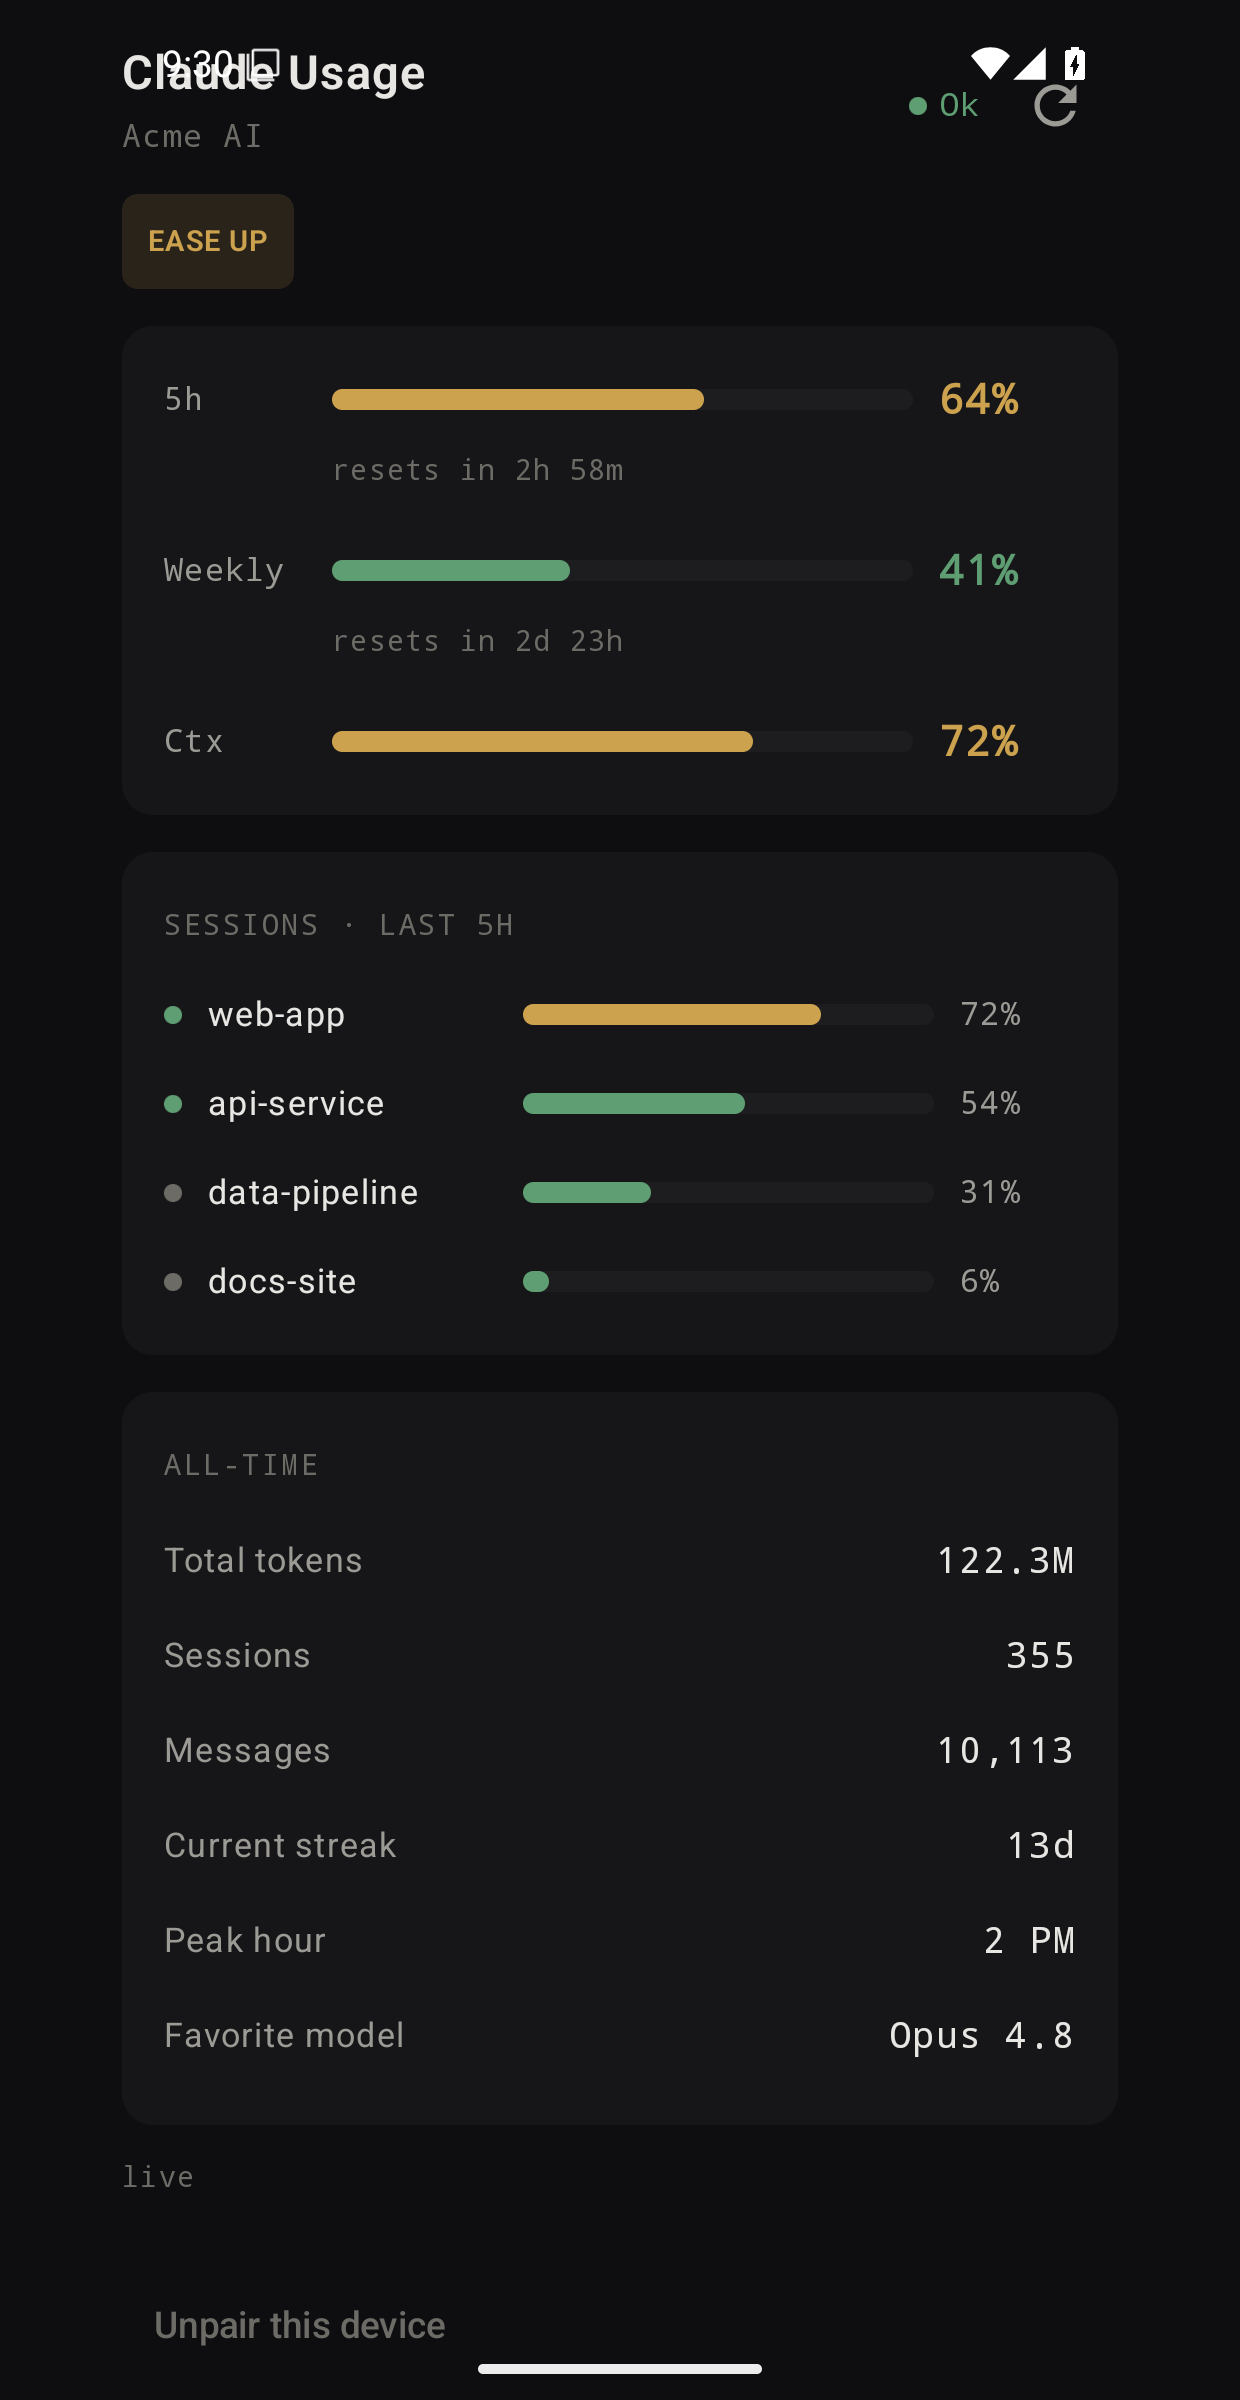
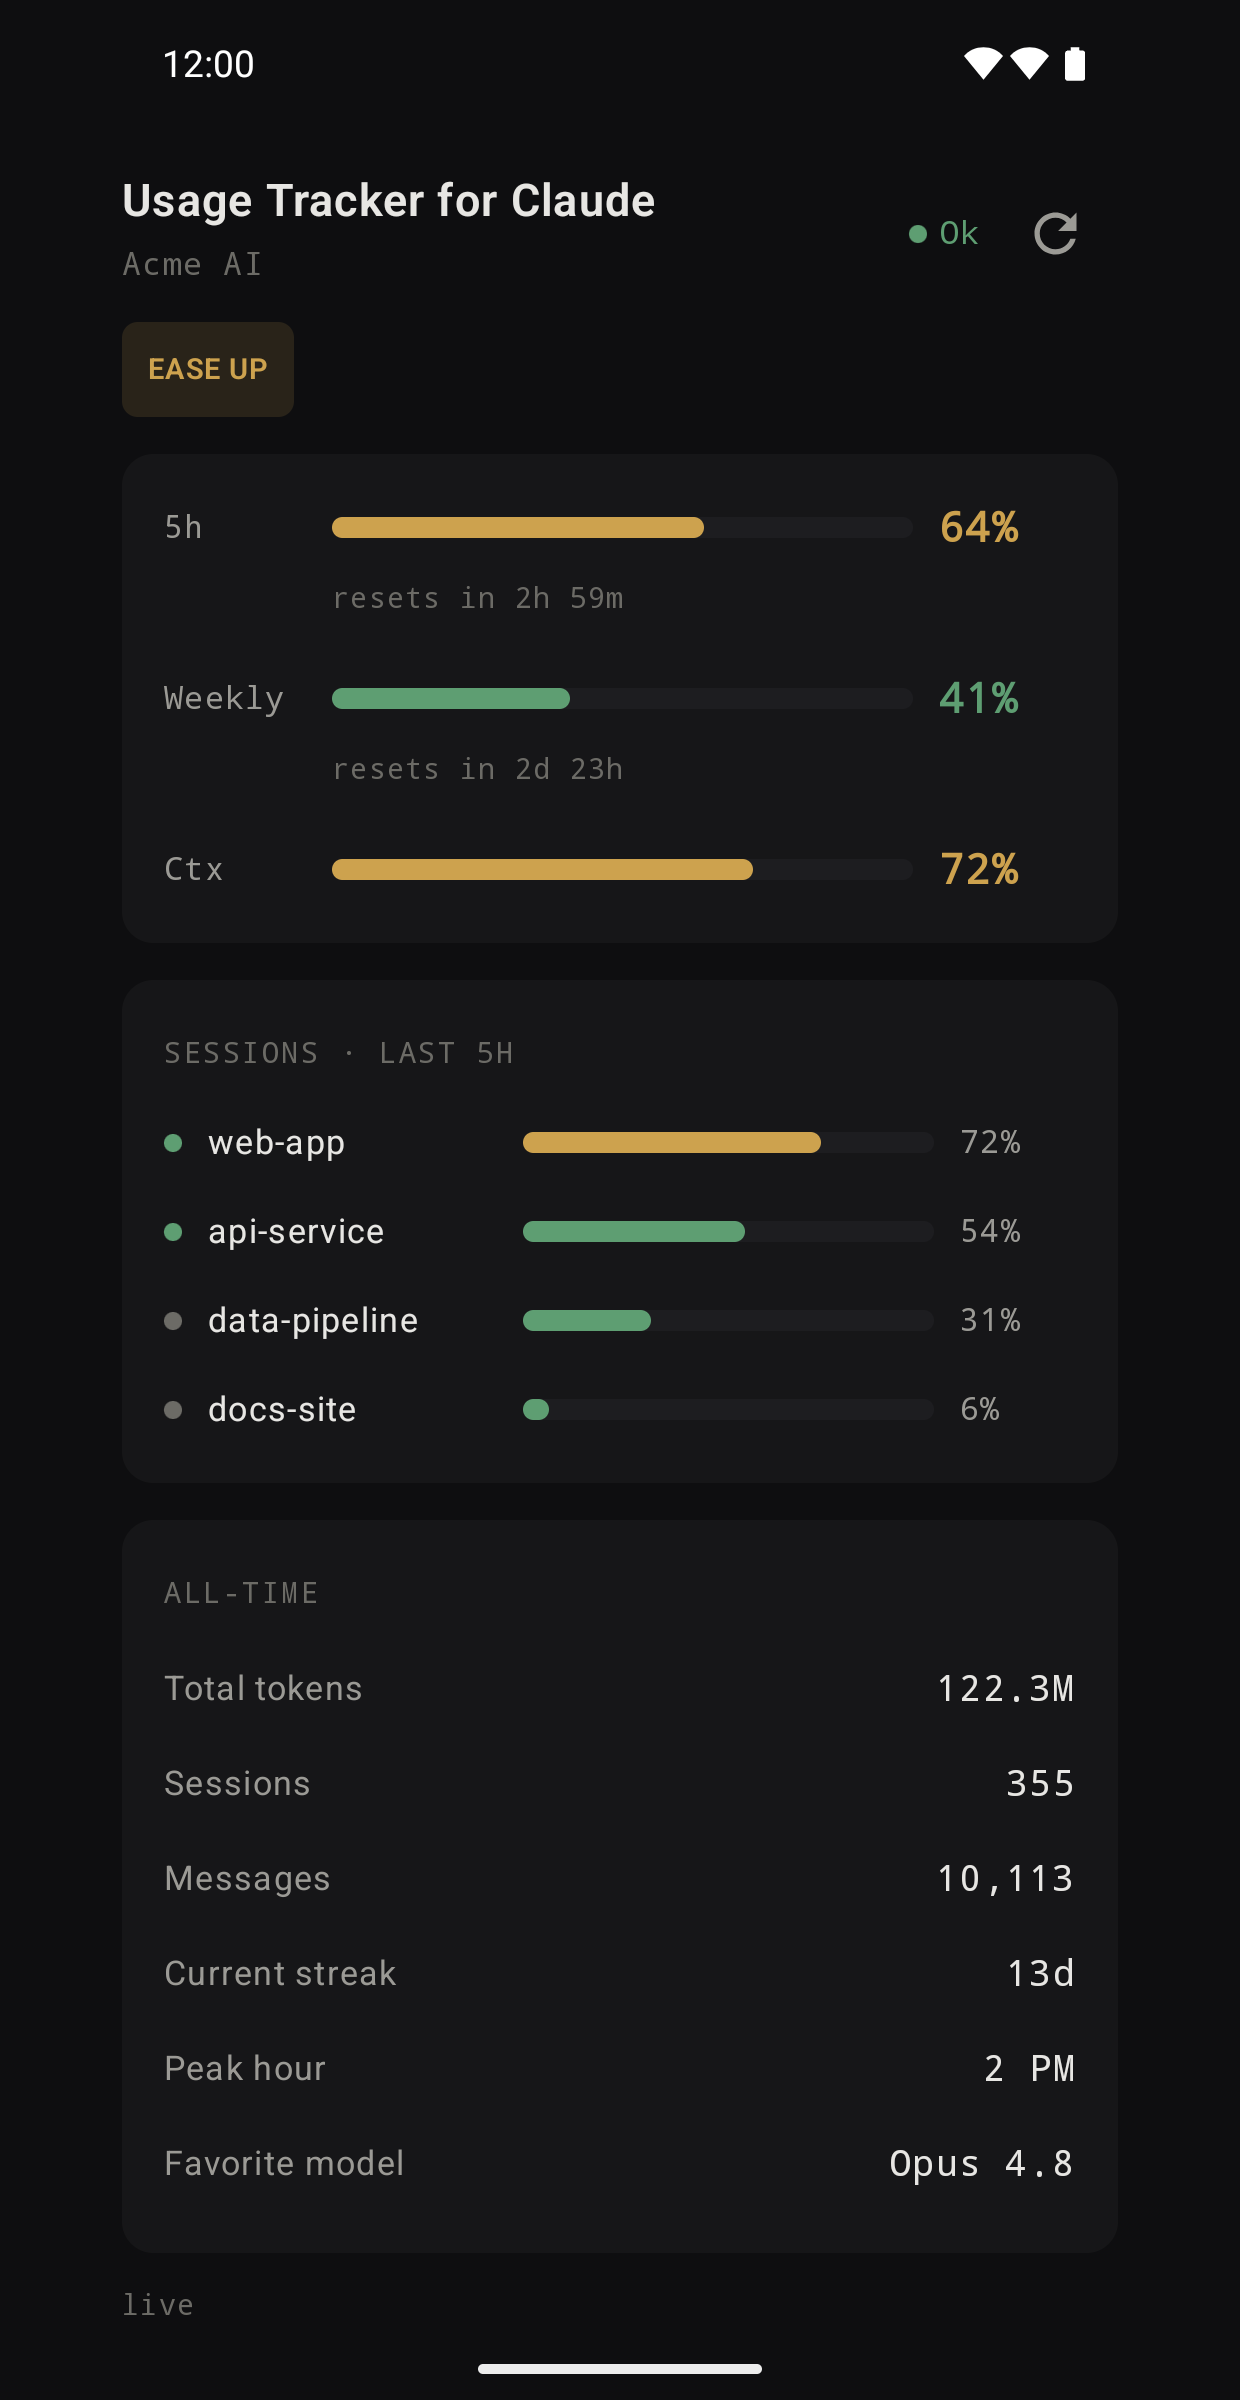
fix(android): edge-to-edge insets, portrait QR, friendly first-sync state
- enableEdgeToEdge() + WindowInsets.safeDrawing on the screen roots so content
  no longer draws under the status/nav bars (targetSdk 35); pin both bars to a
  dark style so the clock/battery stay light on the dark UI. Fixes the header
  overlapping the phone status bar.
- Lock the QR scanner to portrait (was rotating the phone to landscape).
- Treat a not-yet-synced account as a 'waiting for your desktop' state with an
  animated loading bar instead of a raw 'relay 404'; poll faster (5s) until the
  first snapshot arrives, then settle to 20s.
- Relay: a consumer GET on an account before the desktop's first push now
  returns 204 (no data yet) instead of 404.
- Bump versionCode 2->3 / versionName 0.1.1; regenerate Play screenshots
  (new name 'Usage Tracker for Claude' + fixed layout).

diff --git a/android/app/src/main/java/com/claudeusage/tracker/ui/DashboardScreen.kt b/android/app/src/main/java/com/claudeusage/tracker/ui/DashboardScreen.kt
@@ -7,13 +7,16 @@ import androidx.compose.foundation.layout.Box
 import androidx.compose.foundation.layout.Column
 import androidx.compose.foundation.layout.Row
 import androidx.compose.foundation.layout.Spacer
+import androidx.compose.foundation.layout.WindowInsets
 import androidx.compose.foundation.layout.fillMaxSize
 import androidx.compose.foundation.layout.fillMaxWidth
 import androidx.compose.foundation.layout.fillMaxHeight
 import androidx.compose.foundation.layout.height
 import androidx.compose.foundation.layout.padding
+import androidx.compose.foundation.layout.safeDrawing
 import androidx.compose.foundation.layout.size
 import androidx.compose.foundation.layout.width
+import androidx.compose.foundation.layout.windowInsetsPadding
 import androidx.compose.foundation.rememberScrollState
 import androidx.compose.foundation.shape.CircleShape
 import androidx.compose.foundation.shape.RoundedCornerShape
@@ -22,6 +25,7 @@ import androidx.compose.material.icons.Icons
 import androidx.compose.material.icons.filled.Refresh
 import androidx.compose.material3.Icon
 import androidx.compose.material3.IconButton
+import androidx.compose.material3.LinearProgressIndicator
 import androidx.compose.material3.Text
 import androidx.compose.material3.TextButton
 import androidx.compose.runtime.Composable
@@ -39,6 +43,7 @@ import androidx.compose.ui.graphics.Color
 import androidx.compose.ui.platform.LocalContext
 import androidx.compose.ui.text.font.FontFamily
 import androidx.compose.ui.text.font.FontWeight
+import androidx.compose.ui.text.style.TextAlign
 import androidx.compose.ui.unit.dp
 import androidx.compose.ui.unit.sp
 import com.claudeusage.tracker.Prefs
@@ -65,7 +70,7 @@ fun DashboardScreen(onUnpair: () -> Unit) {
         try {
             val js = RelayClient(p).fetchSnapshot()
             if (js == null) {
-                error = "Waiting for the desktop to sync…"
+                error = null            // not synced yet — show the waiting state, not an error
             } else {
                 snap = Snap.parse(js); error = null
             }
@@ -76,11 +81,17 @@ fun DashboardScreen(onUnpair: () -> Unit) {
         }
     }
 
-    LaunchedEffect(Unit) { while (true) { reload(); delay(20_000) } }
+    // Poll fast until the first snapshot lands (so it appears the moment the desktop pushes),
+    // then settle to a calm cadence.
+    LaunchedEffect(Unit) { while (true) { reload(); delay(if (snap == null) 5_000L else 20_000L) } }
     LaunchedEffect(Unit) { while (true) { delay(1_000); now = System.currentTimeMillis() } }
 
     Column(
-        Modifier.fillMaxSize().background(Bg).verticalScroll(rememberScrollState()).padding(16.dp)
+        // Bg fills edge-to-edge and stays fixed; the safeDrawing inset is applied inside the
+        // scroll so content clears the status/nav bars yet still scrolls under the (transparent)
+        // status bar for a native Android-15 feel.
+        Modifier.fillMaxSize().background(Bg).verticalScroll(rememberScrollState())
+            .windowInsetsPadding(WindowInsets.safeDrawing).padding(16.dp)
     ) {
         // header
         Row(verticalAlignment = Alignment.CenterVertically, modifier = Modifier.fillMaxWidth()) {
@@ -128,8 +139,16 @@ fun DashboardScreen(onUnpair: () -> Unit) {
         }
 
         if (snap == null) {
-            Spacer(Modifier.height(40.dp))
-            Text(if (loading) "loading…" else (error ?: "no data"), color = Dim, fontSize = 14.sp)
+            if (error == null) {
+                WaitingForSync()
+            } else {
+                Spacer(Modifier.height(48.dp))
+                Text(error!!, color = hexColor("#d4694f"), fontSize = 14.sp,
+                    textAlign = TextAlign.Center, modifier = Modifier.fillMaxWidth())
+                Spacer(Modifier.height(12.dp))
+                TextButton(onClick = { scope.launch { reload() } },
+                    modifier = Modifier.align(Alignment.CenterHorizontally)) { Text("Try again", color = Accent) }
+            }
         } else if (error != null) {
             Spacer(Modifier.height(6.dp))
             Text(error!!, color = hexColor("#cda24e"), fontSize = 11.sp, fontFamily = FontFamily.Monospace)
@@ -145,6 +164,29 @@ private fun Card(content: @Composable () -> Unit) {
     Column(
         Modifier.fillMaxWidth().clip(RoundedCornerShape(12.dp)).background(Panel).padding(16.dp)
     ) { content() }
+}
+
+/** Friendly first-sync state: the account exists but the desktop hasn't pushed a snapshot
+ *  yet (it can take a few seconds). An indeterminate bar signals "working", not "stuck". */
+@Composable
+private fun WaitingForSync() {
+    Column(
+        Modifier.fillMaxWidth().padding(top = 64.dp, start = 8.dp, end = 8.dp),
+        horizontalAlignment = Alignment.CenterHorizontally,
+    ) {
+        Text("Waiting for your desktop", color = Ink, fontSize = 17.sp, fontWeight = FontWeight.SemiBold)
+        Spacer(Modifier.height(8.dp))
+        Text(
+            "Syncing for the first time. Keep the desktop app open with Remote (phone) " +
+                "enabled — this usually takes a few seconds.",
+            color = Dim, fontSize = 13.sp, textAlign = TextAlign.Center,
+        )
+        Spacer(Modifier.height(24.dp))
+        LinearProgressIndicator(
+            modifier = Modifier.fillMaxWidth(0.62f).height(5.dp).clip(RoundedCornerShape(3.dp)),
+            color = Accent, trackColor = Panel2,
+        )
+    }
 }
 
 @Composable

diff --git a/android/app/src/main/java/com/claudeusage/tracker/ui/MainActivity.kt b/android/app/src/main/java/com/claudeusage/tracker/ui/MainActivity.kt
@@ -5,8 +5,10 @@ import android.content.Context
 import android.os.Build
 import android.os.Bundle
 import androidx.activity.ComponentActivity
+import androidx.activity.SystemBarStyle
 import androidx.activity.compose.rememberLauncherForActivityResult
 import androidx.activity.compose.setContent
+import androidx.activity.enableEdgeToEdge
 import androidx.activity.result.contract.ActivityResultContracts
 import androidx.compose.runtime.LaunchedEffect
 import androidx.compose.runtime.getValue
@@ -24,6 +26,14 @@ import kotlinx.coroutines.launch
 class MainActivity : ComponentActivity() {
     override fun onCreate(savedInstanceState: Bundle?) {
         super.onCreate(savedInstanceState)
+        // targetSdk 35 forces edge-to-edge. Opt in explicitly and pin both bars to the
+        // "dark" style (transparent scrim, light icons) so the clock/battery stay legible
+        // on our always-dark UI regardless of the phone's light/dark setting. The Compose
+        // roots inset themselves via WindowInsets.safeDrawing.
+        enableEdgeToEdge(
+            statusBarStyle = SystemBarStyle.dark(android.graphics.Color.TRANSPARENT),
+            navigationBarStyle = SystemBarStyle.dark(android.graphics.Color.TRANSPARENT),
+        )
         // Allow pairing via a cutpair1: deep link (in addition to scanning the QR).
         intent?.dataString?.let { data -> Pairing.parse(data)?.let { Prefs.save(this, it) } }
         setContent {

diff --git a/relay/src/index.js b/relay/src/index.js
@@ -46,7 +46,13 @@ async function handle(request, env, ctx) {
 
   // Trust-on-first-use: the very first snapshot PUT pins the readToken hash.
   const isFirstWrite = !storedHash && method === "PUT" && resource === "snapshot";
-  if (!storedHash && !isFirstWrite) return cors(json({ error: "unknown_account" }, 404));
+  if (!storedHash && !isFirstWrite) {
+    // A consumer GET before the desktop's first push isn't an error — the account
+    // simply has no snapshot yet. Answer 204 so the phone shows a "waiting to sync"
+    // state instead of a scary 404. Other verbs on an unknown account stay 404.
+    if (method === "GET" && resource === "snapshot") return cors(new Response(null, { status: 204 }));
+    return cors(json({ error: "unknown_account" }, 404));
+  }
   if (storedHash && !timingSafeEqual(storedHash, bearerHash)) {
     return cors(json({ error: "forbidden" }, 403));
   }

diff --git a/android/app/src/main/java/com/claudeusage/tracker/ui/PairScreen.kt b/android/app/src/main/java/com/claudeusage/tracker/ui/PairScreen.kt
@@ -5,6 +5,7 @@ import androidx.compose.foundation.layout.Column
 import androidx.compose.foundation.layout.fillMaxSize
 import androidx.compose.foundation.layout.fillMaxWidth
 import androidx.compose.foundation.layout.padding
+import androidx.compose.foundation.layout.safeDrawingPadding
 import androidx.compose.foundation.layout.size
 import androidx.compose.foundation.shape.RoundedCornerShape
 import androidx.compose.material.icons.Icons
@@ -49,7 +50,7 @@ fun PairScreen(onPaired: () -> Unit) {
     }
 
     Column(
-        modifier = Modifier.fillMaxSize().padding(28.dp),
+        modifier = Modifier.fillMaxSize().safeDrawingPadding().padding(28.dp),
         verticalArrangement = Arrangement.Center,
         horizontalAlignment = Alignment.CenterHorizontally,
     ) {
@@ -67,7 +68,7 @@ fun PairScreen(onPaired: () -> Unit) {
                 error = null
                 scanLauncher.launch(
                     ScanOptions()
-                        .setOrientationLocked(false)
+                        .setOrientationLocked(true)   // keep the scanner portrait — don't rotate the phone
                         .setBeepEnabled(false)
                         .setPrompt("Scan the pairing QR from the desktop")
                 )

diff --git a/android/app/src/main/java/com/claudeusage/tracker/RelayClient.kt b/android/app/src/main/java/com/claudeusage/tracker/RelayClient.kt
@@ -26,7 +26,9 @@ class RelayClient(private val p: Pairing) {
             .header("Authorization", "Bearer ${p.readToken}")
             .get().build()
         http.newCall(req).execute().use { resp ->
-            if (resp.code == 204) return@withContext null
+            // 204 = account exists but no snapshot; 404 = desktop hasn't pushed yet.
+            // Both mean "not synced yet" — surface a friendly waiting state, not an error.
+            if (resp.code == 204 || resp.code == 404) return@withContext null
             if (!resp.isSuccessful) throw IOException("relay ${resp.code}")
             val body = resp.body?.string() ?: return@withContext null
             val o = JSONObject(body)